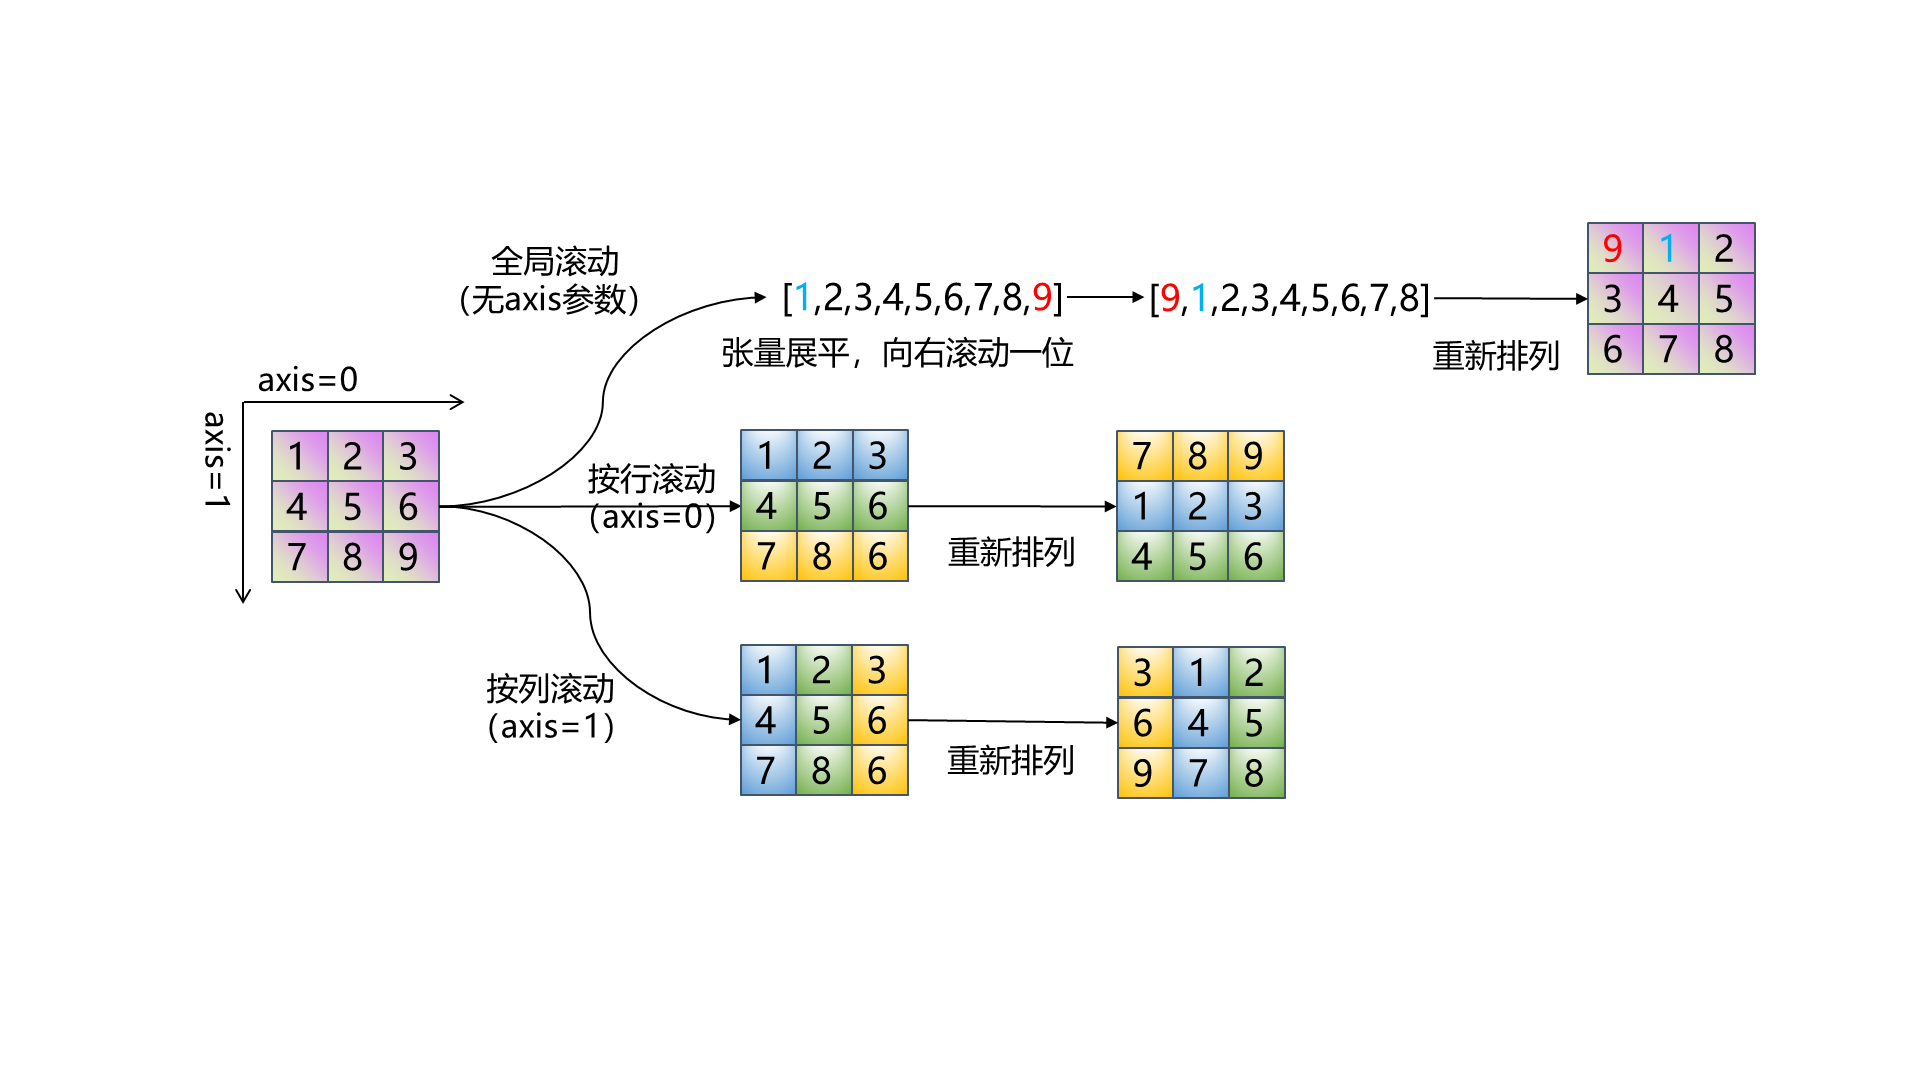
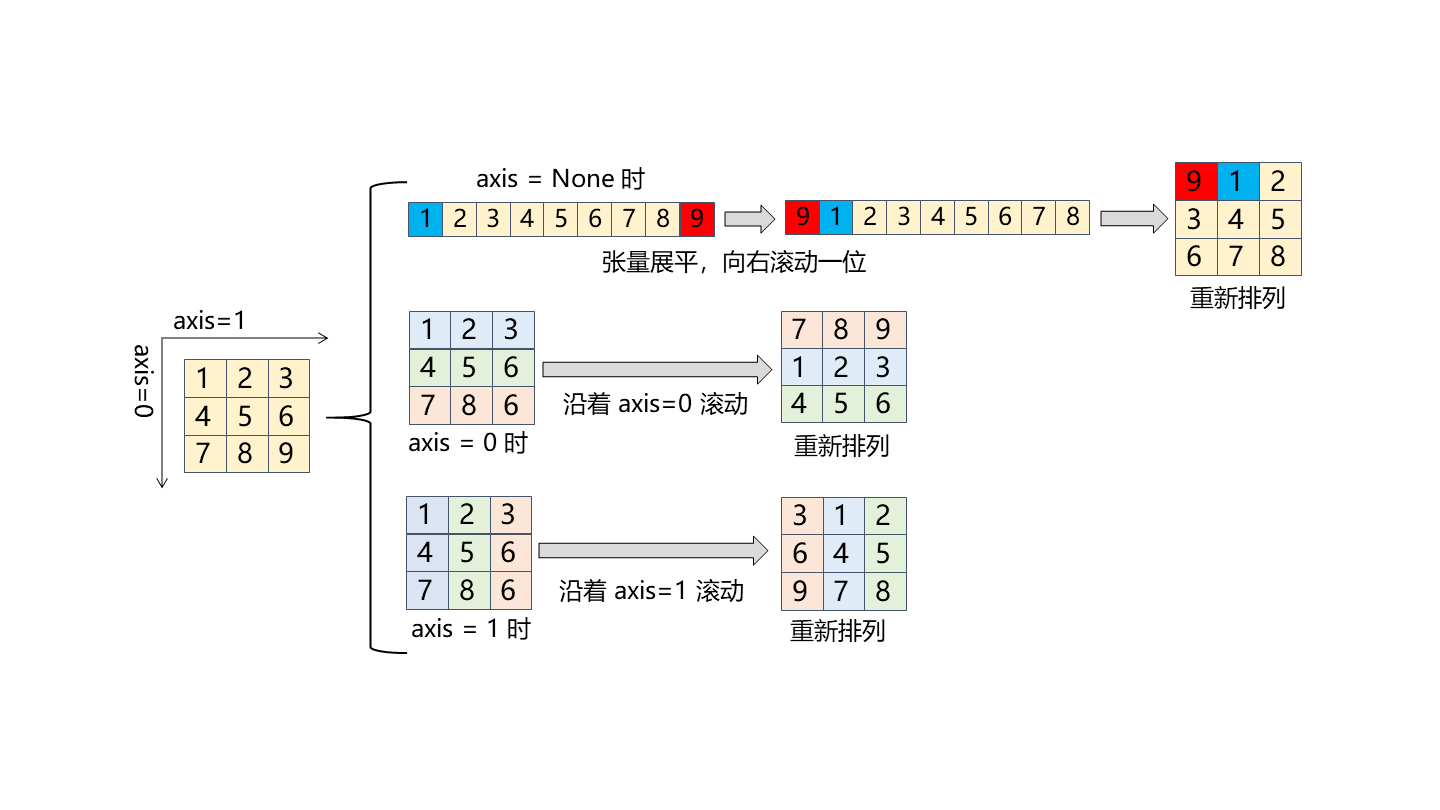
fix document

Changed region(s): [[0.0938, 0.3395, 0.6875, 0.8025], [0.25, 0.1852, 0.9375, 0.4012]]

diff --git a/docs/api/paddle/roll_cn.rst b/docs/api/paddle/roll_cn.rst
@@ -18,13 +18,18 @@ roll
     - **axis** (int|list|tuple，可选) – 滚动轴。默认值为 None。
     - **name** (str，可选) - 具体用法请参见 :ref:`api_guide_Name`，一般无需设置，默认值为 None。
 
-下图展示了一个形状为 ``[[1,2,3],[4,5,6],[7,8,9]]`` 的二维张量通过 roll 操作转变为形状不同的张量。当全局滚动（无 `axis` 参数）时，张量会被展平成一维，然后进行循环滚动，再恢复原状；
-当按行滚动（axis=0）时，张量沿着行进行循环滚动；当按列滚动（axis=1）时，张量沿着列进行循环滚动。通过上述操作，可以看到每个元素在不同滚动操作下的位置变化。
+下图展示了一个形状为 ``[[1,2,3],[4,5,6],[7,8,9]]`` 的二维张量通过 ``roll`` 操作转变为形状不同的张量。
 
 .. image:: ../../images/api_legend/roll.png
-   :alt: 图例
+    :width: 700
+    :align: center
+    :alt: 图例
 
+- 当 ``axis = None`` 时，张量会被展平成一维，然后进行循环滚动，再恢复原状
+- 当 ``axis=0`` 时，张量沿着0轴方向进行循环滚动
+- 当 ``axis=1`` 时，张量沿着1轴方向进行循环滚动
 
+由于 ``axis`` 参数的取值不同，对应的滚动操作也不同，由图可以看到每个元素在不同滚动操作下的位置变化。
 
 返回
 :::::::::
